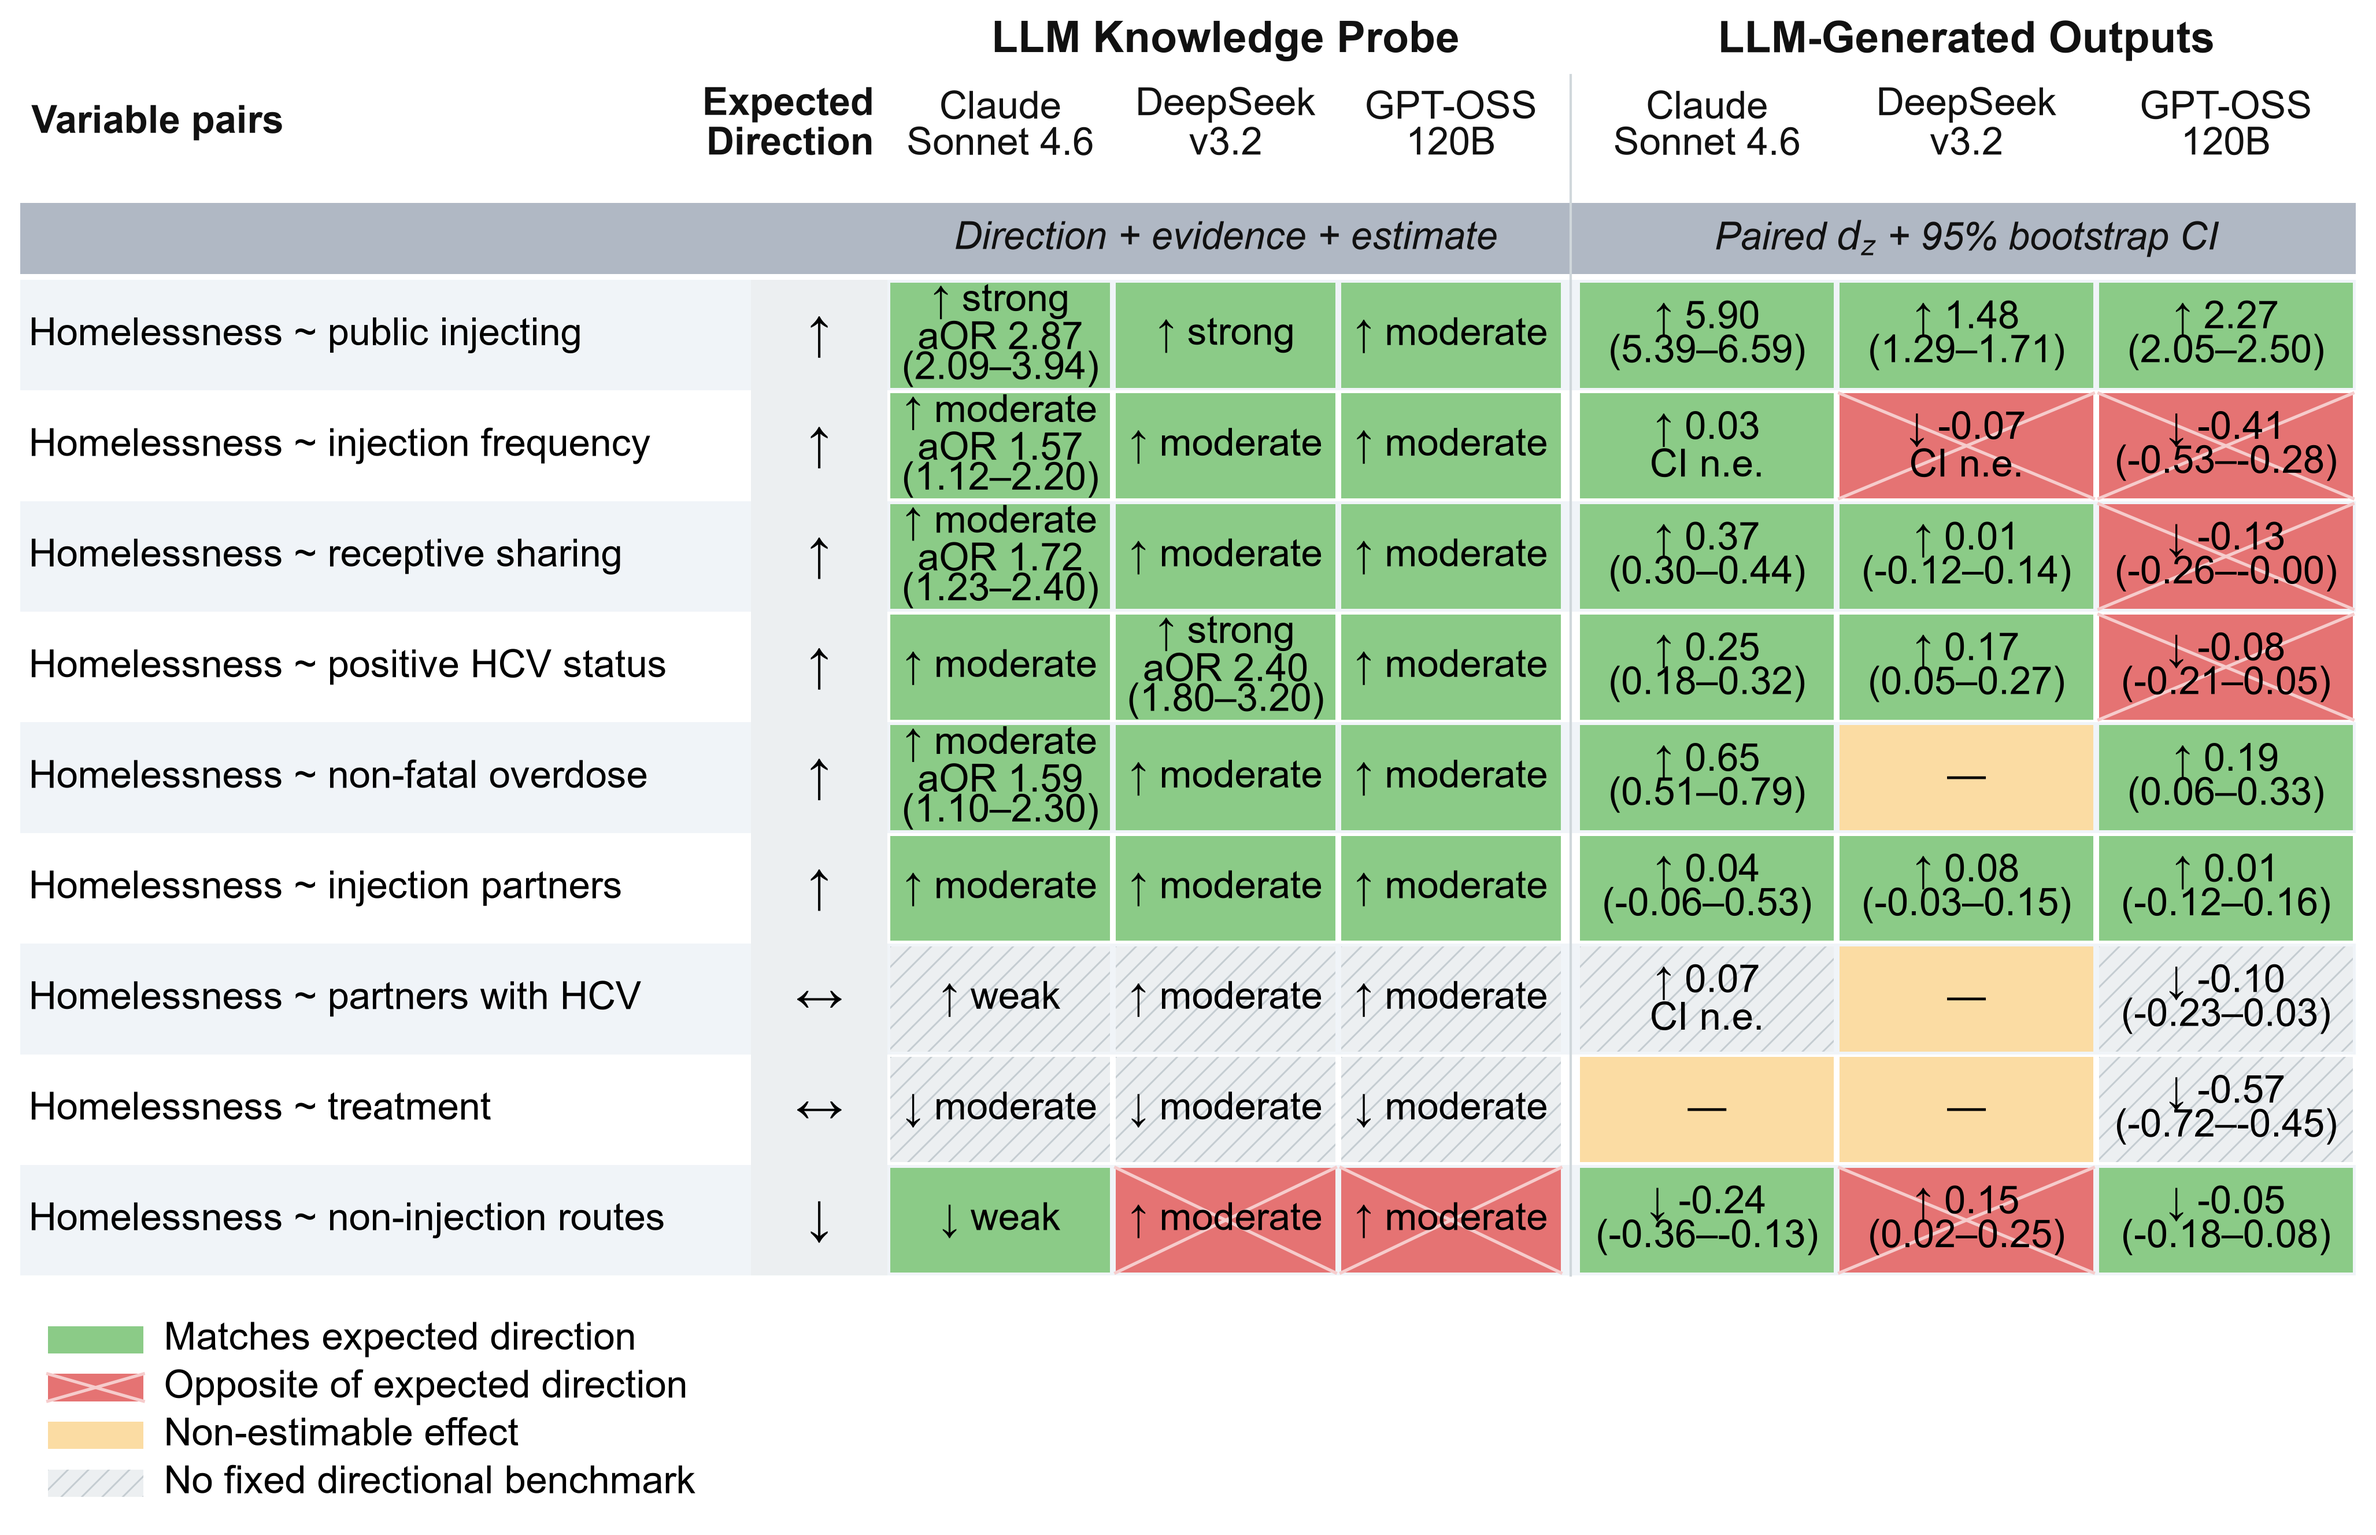
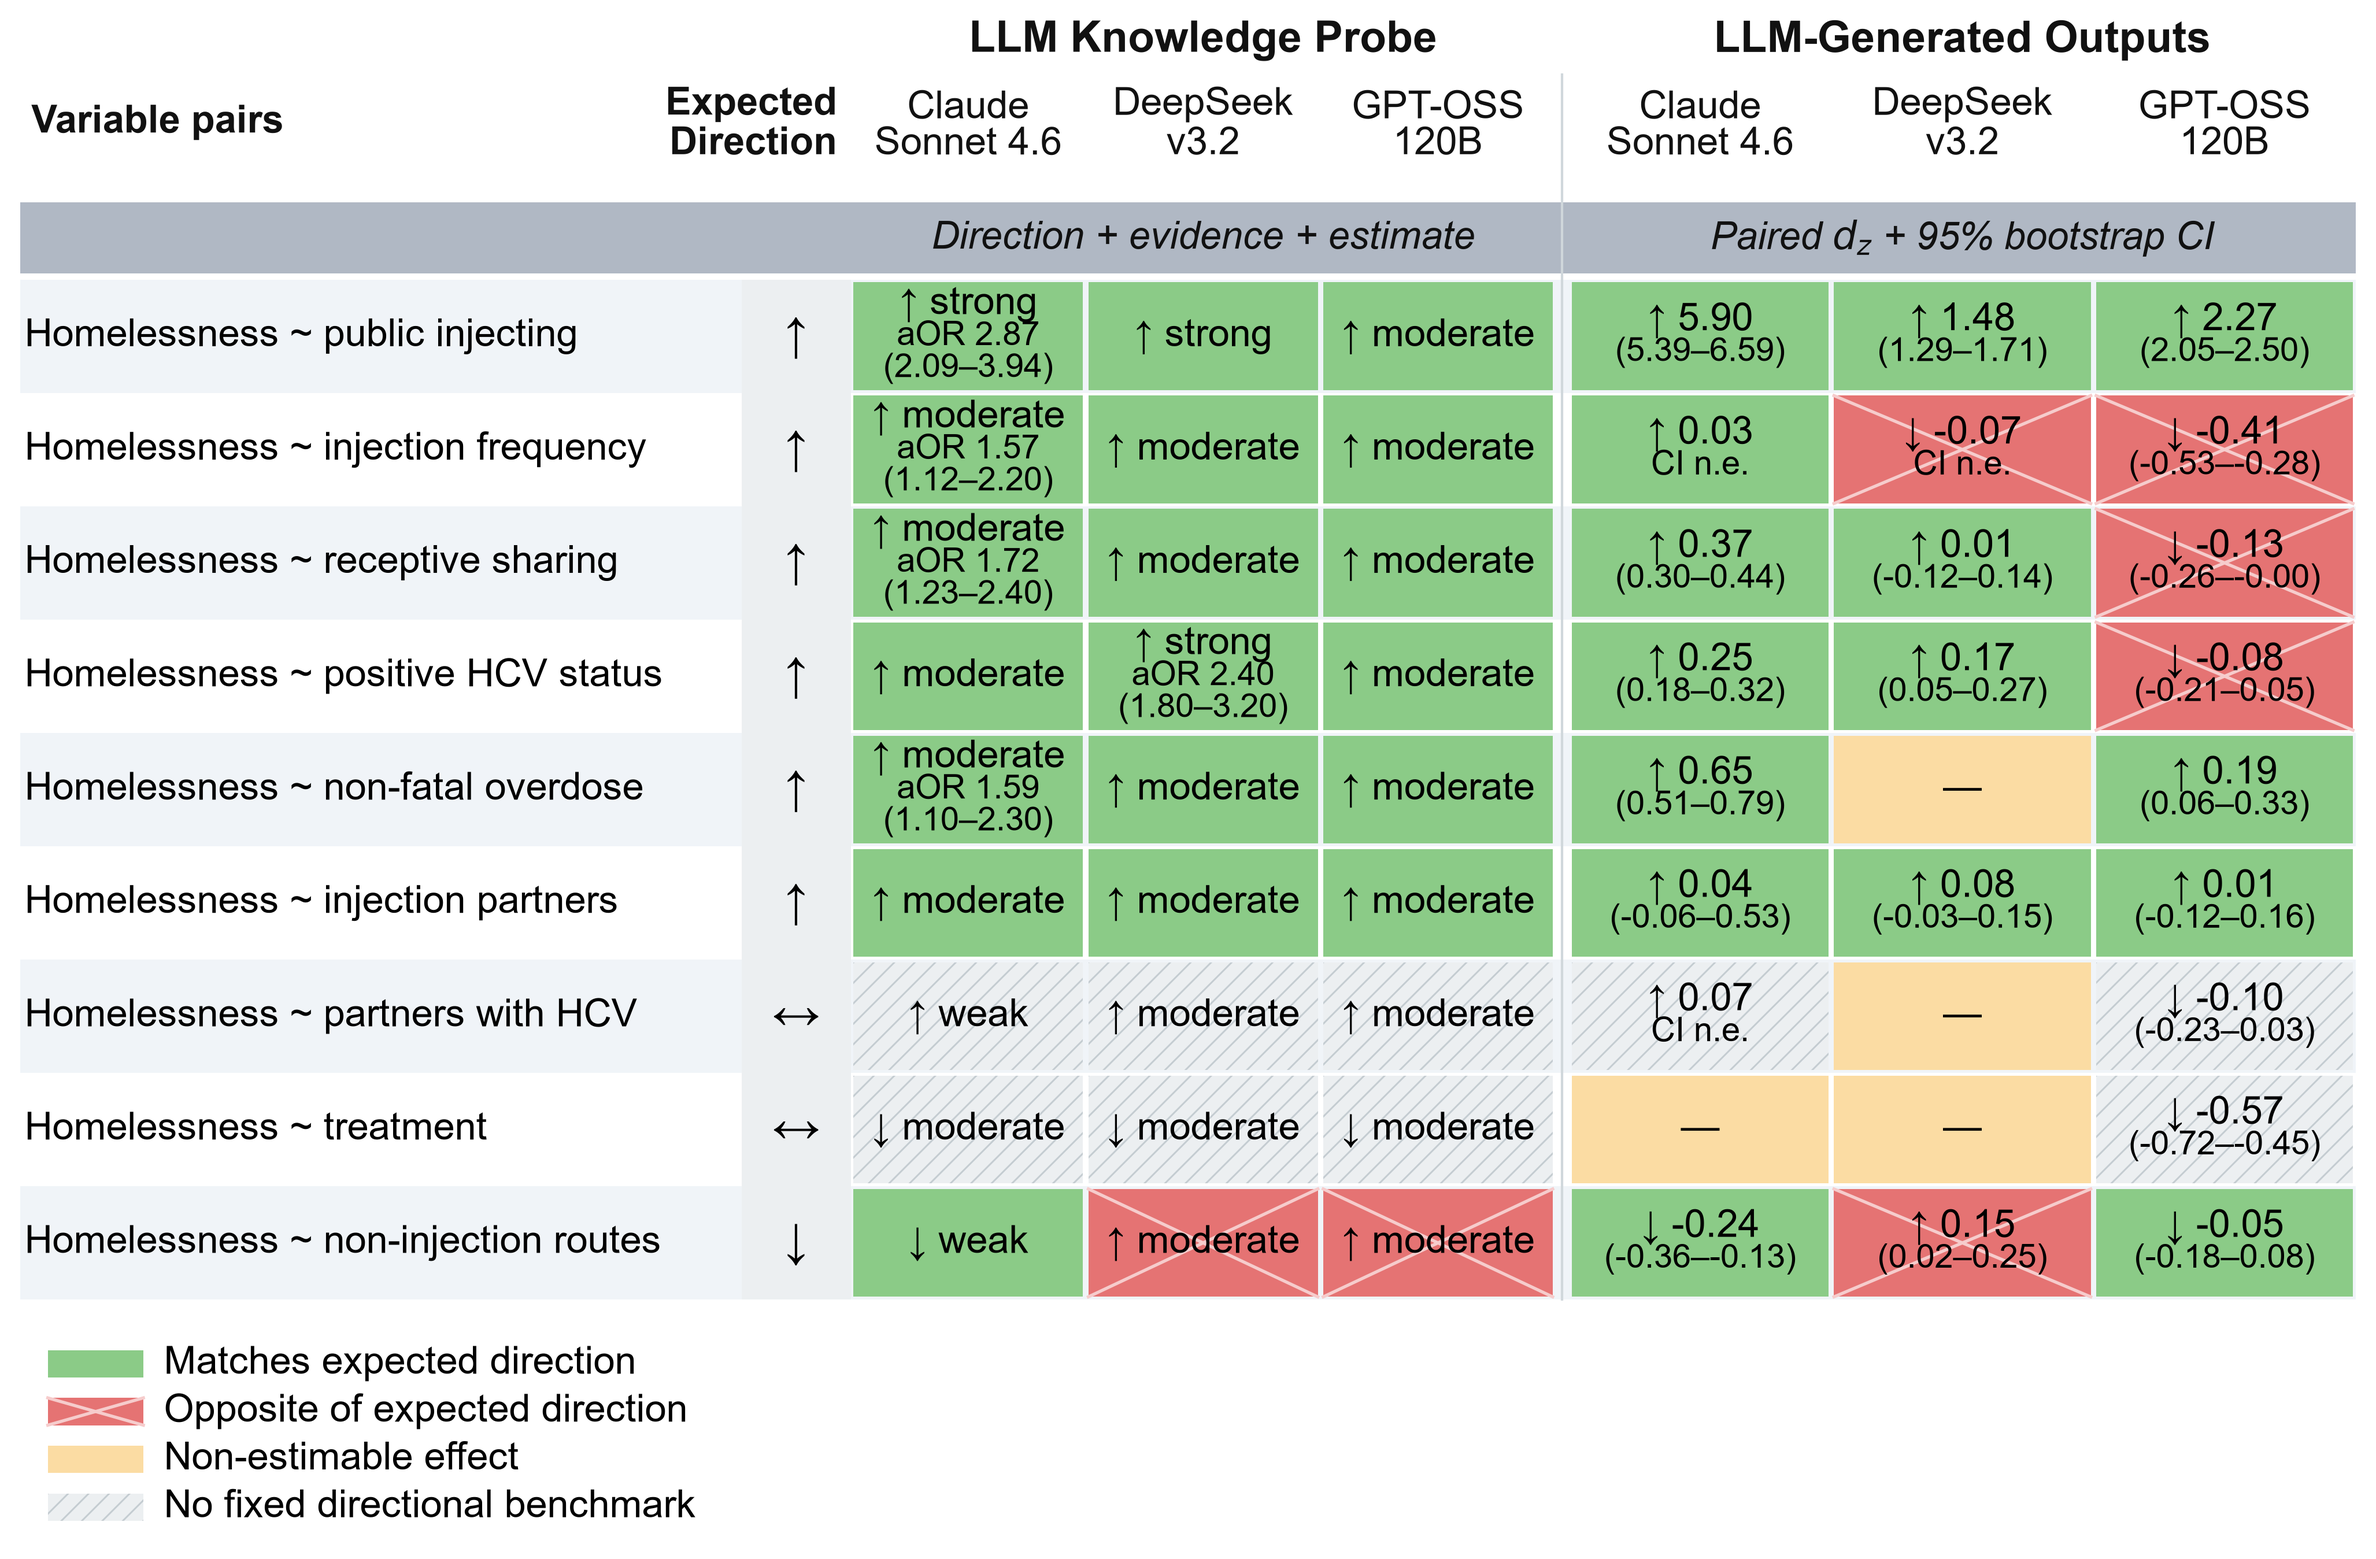
Relax figure cell spacing and keep ABM pair labels on one line

diff --git a/artwork.py b/artwork.py
@@ -16,6 +16,7 @@ MM_PER_INCH = 25.4
 WIDTH_MM = 174
 RASTER_DPI = 600
 FONT_PT = 8
+DETAIL_FONT_PT = 7
 STYLES = {
     "match": ("#D8EAD4", ""),
     "opposite": ("#F0CBCB", "xx"),
@@ -49,7 +50,7 @@ def configure_artwork():
     })
 
 
-def export_artwork(fig, name):
+def export_artwork(fig, name, minimum_font_pt=8):
     """Keep the page size fixed; RGB raster alternatives accompany vector EPS/PDF."""
     width_mm, height_mm = fig.get_size_inches() * MM_PER_INCH
     if abs(width_mm-WIDTH_MM) > .01 or height_mm > 234:
@@ -71,8 +72,8 @@ def export_artwork(fig, name):
         if artist in hidden_ticks or not artist.get_visible() or not artist.get_text():
             continue
         fonts.append(artist.get_fontsize())
-        if not 8 <= artist.get_fontsize() <= 12:
-            raise ValueError(f"Lettering outside 8--12 pt: {artist.get_text()}")
+        if not minimum_font_pt <= artist.get_fontsize() <= 12:
+            raise ValueError(f"Lettering outside the selected size range: {artist.get_text()}")
         box = artist.get_window_extent(renderer)
         if box.x0 < page.x0-.5 or box.y0 < page.y0-.5 or box.x1 > page.x1+.5 or box.y1 > page.y1+.5:
             raise ValueError(f"Text outside page in {name}: {artist.get_text()}")
@@ -124,16 +125,20 @@ def _knowledge_text(row):
     return "\n".join(lines)
 
 
+def _pair_label(a, b):
+    return f"{NAMES[a]} ~ {NAMES[b][0].lower()+NAMES[b][1:]}"
+
+
 def draw_association_table(kind, knowledge, housing, correlations):
     """Retain the original banded comparison layout at final publication size."""
     configure_artwork()
     pairs = [pair for pair in EXPECTED if (pair[0] == TERMS["Homeless"]) == (kind == "housing")]
-    row_mm, header_mm, legend_mm, margin_mm = 8.1, 19, (17.5 if kind == "housing" else 21), 1.5
+    row_mm, header_mm, legend_mm, margin_mm = 8.3, 19, (17.5 if kind == "housing" else 21), 1.5
     height = 2*margin_mm + header_mm + row_mm*len(pairs) + legend_mm
     fig = plt.figure(figsize=(WIDTH_MM/MM_PER_INCH, height/MM_PER_INCH), dpi=100)
     ax = fig.add_axes([0, 0, 1, 1])
     ax.set_xlim(0, WIDTH_MM); ax.set_ylim(0, height); ax.axis("off")
-    left, label_w, expected_w, knowledge_w, output_w = 1.5, 53.5, 10, 16.5, 19
+    left, label_w, expected_w, knowledge_w, output_w = 1.5, 52.8, 8, 17.2, 19.2
     knowledge_x = left+label_w+expected_w
     output_x = knowledge_x+3*knowledge_w+1
     body_top = height-margin_mm-header_mm
@@ -178,9 +183,15 @@ def draw_association_table(kind, knowledge, housing, correlations):
 
     def cell(x, y, width, text, status):
         background(x+.2, y+.2, width-.4, row_mm-.4, status)
-        artist = ax.text(x+width/2, y+row_mm/2, text, ha="center", va="center",
-                        fontsize=8, linespacing=.93, color="#000000", zorder=3)
-        cell_records.append((artist, width-.8, row_mm-.4))
+        lines = text.split("\n")
+        # Keep the direction/effect at 8 pt and reduce only estimate/CI detail.
+        spacing_mm = 2.35
+        for index, line in enumerate(lines):
+            offset = ((len(lines)-1)/2-index)*spacing_mm
+            artist = ax.text(x+width/2, y+row_mm/2+offset, line, ha="center", va="center",
+                             fontsize=8 if index == 0 else DETAIL_FONT_PT,
+                             color="#000000", zorder=3)
+            cell_records.append((artist, width-.8, row_mm-.4))
 
     for index, (exposure, outcome) in enumerate(pairs):
         y = body_top-(index+1)*row_mm
@@ -191,10 +202,10 @@ def draw_association_table(kind, knowledge, housing, correlations):
                                    facecolor="#F0F4F8", edgecolor="none", zorder=0))
         ax.add_patch(Rectangle((left+label_w, y), expected_w, row_mm,
                                facecolor="#ECEFF1", edgecolor="none", zorder=0))
-        label = ax.text(left+.6, y+row_mm/2,
-                        f"{NAMES[a]} ~ {NAMES[b][0].lower()+NAMES[b][1:]}", ha="left", va="center",
+        label = ax.text(left+.3, y+row_mm/2,
+                        _pair_label(a, b), ha="left", va="center",
                         fontsize=8, color="#000000", zorder=3)
-        cell_records.append((label, label_w-1.2, row_mm-.4))
+        cell_records.append((label, label_w-.6, row_mm-.4))
         ax.text(left+label_w+expected_w/2, y+row_mm/2, expected,
                 ha="center", va="center", fontsize=10, color="#000000", zorder=3)
         for j, model in enumerate(MODELS):
@@ -242,7 +253,7 @@ def draw_association_table(kind, knowledge, housing, correlations):
         bounds = artist.get_window_extent(renderer)
         if bounds.width > width*pixels_per_mm or bounds.height > row_height*pixels_per_mm:
             raise ValueError(f"Text does not fit a publication cell: {artist.get_text()}")
-    export_artwork(fig, "Fig2" if kind == "housing" else "FigS1")
+    export_artwork(fig, "Fig2" if kind == "housing" else "FigS1", minimum_font_pt=DETAIL_FONT_PT)
 
 
 def plot_timing_sensitivity(sweep):
@@ -293,7 +304,7 @@ def plot_abm_correlations(results):
                        color=colors[row.ModelLabel], edgecolors="#111111", linewidths=.4, zorder=3)
         ax.set_yticks(y, labels, fontsize=8); ax.set_ylim(-.5,len(frame)-.5); ax.invert_yaxis()
         ax.set_xlim(-1,1); ax.set_xticks([-1,0,1])
-        ax.set_xlabel(f"{NAMES[a]}\n~ {NAMES[b]}", fontsize=8, labelpad=2)
+        ax.set_xlabel(_pair_label(a, b), fontsize=8, labelpad=2)
         ax.axvline(0, linewidth=.35, color="#555555", zorder=0)
         ax.spines[["top", "right"]].set_visible(False)
         ax.text(.03,.92,letter,transform=ax.transAxes,va="top",fontsize=9,weight="bold")

diff --git a/Read.md b/Read.md
@@ -80,7 +80,7 @@ The runner checks the directional-scoring counts, statistical helpers, bootstrap
 
 `figures/` contains the housing comparison (`Fig2.png`), generated-outcome correlation comparison (`FigS1.png`), condition-specific ABM comparison (`FigS2.png`), and observation-timing sensitivity (`FigS3.png`). Only PNG exports are tracked on GitHub.
 
-Artwork is formatted using the [journal's artwork guidelines](https://link.springer.com/journal/42001/submission-guidelines#Instructions%20for%20Authors_Artwork%20and%20Illustrations%20Guidelines). Figures use Arial lettering of 8–10 pt at 174 mm width, heights below 234 mm, and 600-dpi RGB PNG exports. Running the plotting code also creates EPS with embedded fonts, PDF, SVG, and TIFF copies locally. Those files, separate captions, and `artwork_checks.json` remain local and are excluded from Git.
+Artwork uses the [journal's artwork guidelines](https://link.springer.com/journal/42001/submission-guidelines#Instructions%20for%20Authors_Artwork%20and%20Illustrations%20Guidelines) for sizing and exports. Figures use Arial labels of 8–10 pt at 174 mm width, heights below 234 mm, and 600-dpi RGB PNG exports. Association estimates and confidence intervals in Fig2 and FigS1 use 7 pt as requested; this is below the journal's usual recommended 8–12 pt range. Running the plotting code also creates EPS with embedded fonts, PDF, SVG, and TIFF copies locally. Those files, separate captions, and `artwork_checks.json` remain local and are excluded from Git.
 
 ## Optional model generation
 
